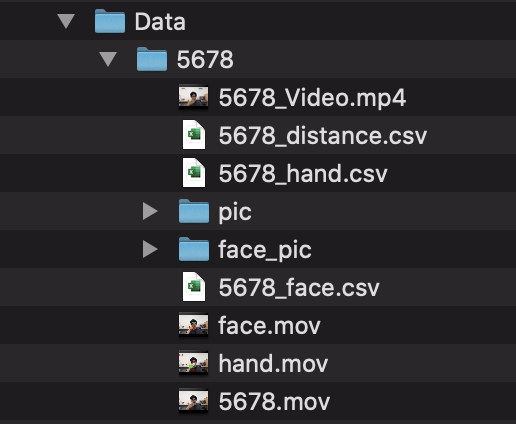
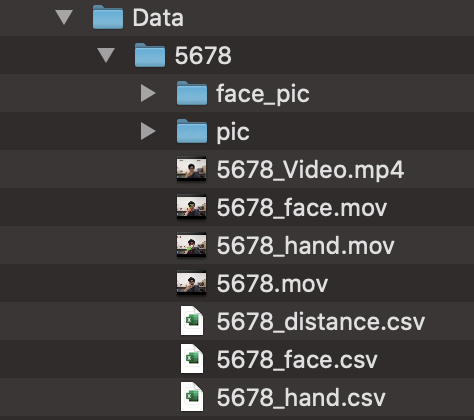
m

diff --git a/README.md b/README.md
@@ -189,7 +189,7 @@ python mediapipe/pyfiles/gui4.py
 
 
 
-最終的に，以下の様な構成になります．
+最終的に，以下の様な構成になります．(csv3つ，動画4つ，フォルダ2つ)
 
 
 <img src="images/final.png" width="400">
